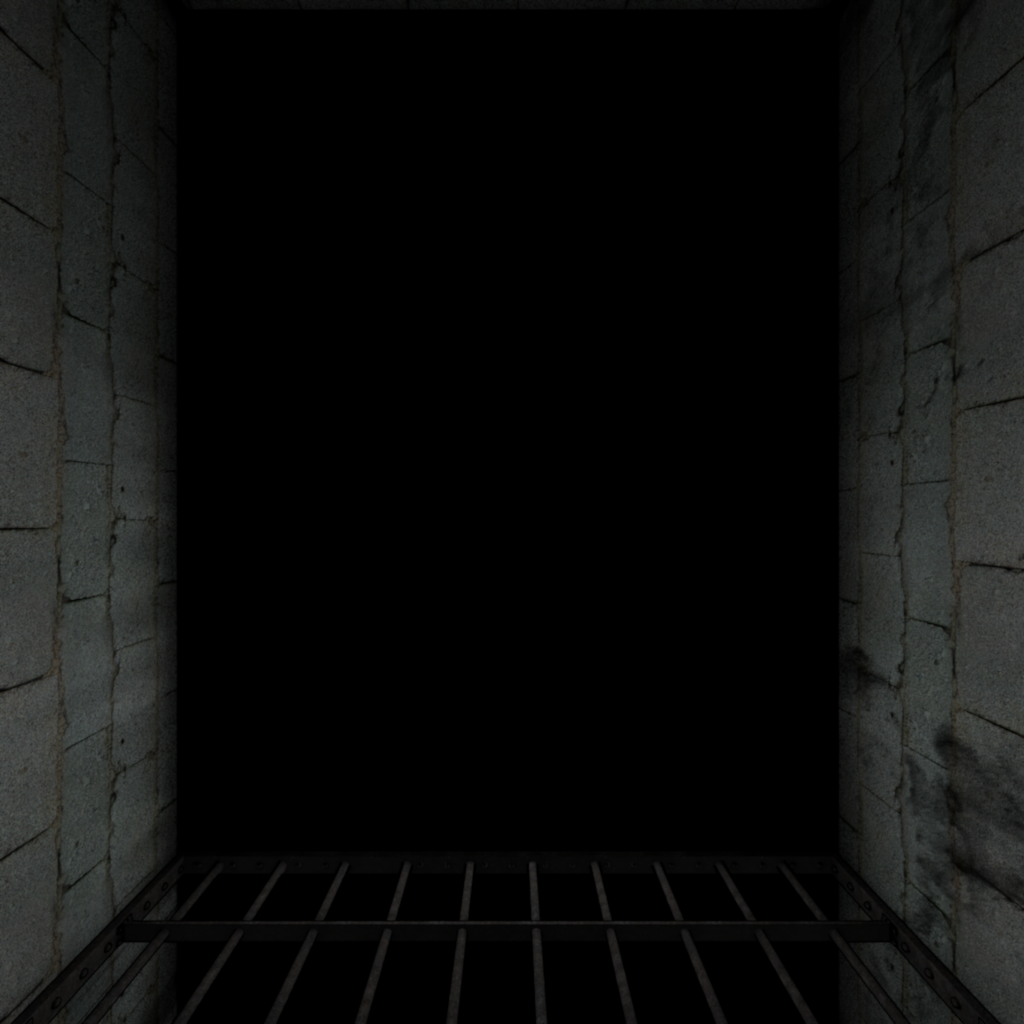
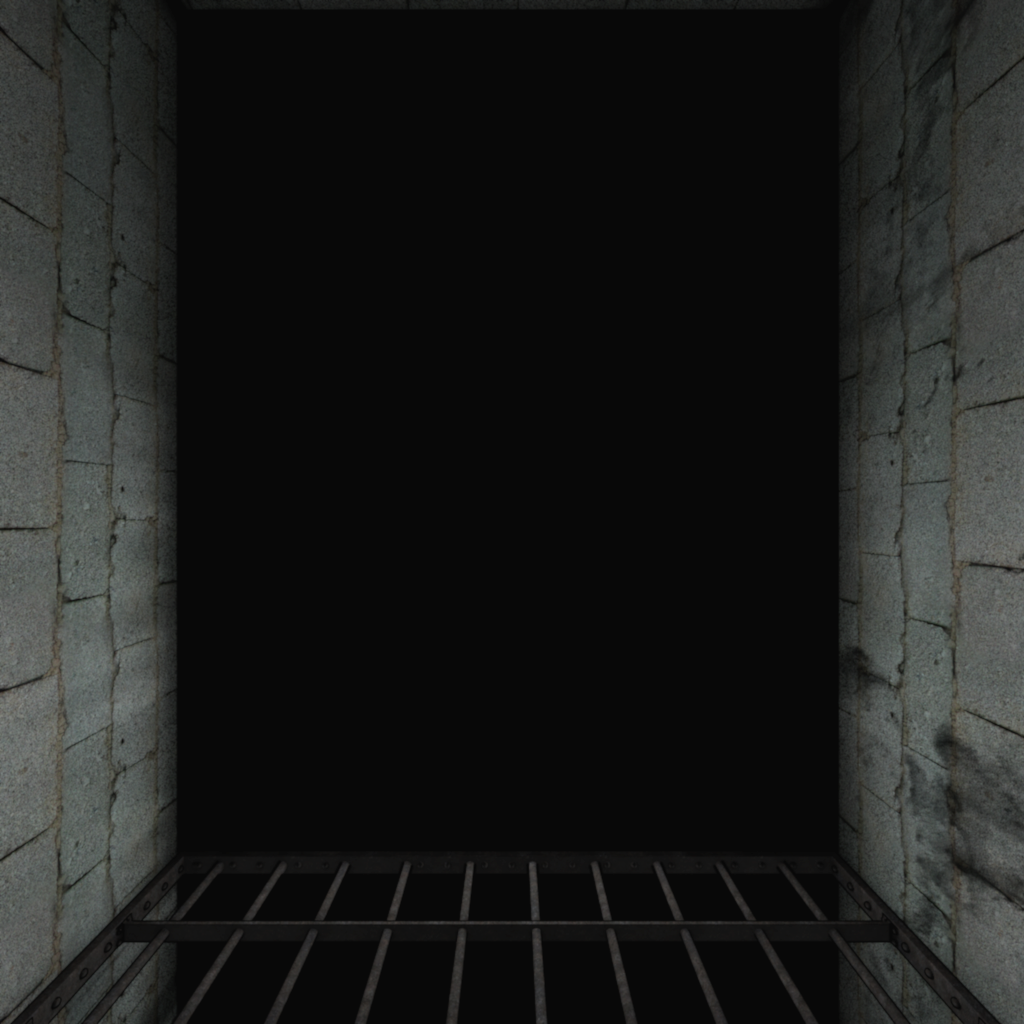
rawr

diff --git a/scenes/cell.html b/scenes/cell.html
@@ -12,46 +12,69 @@
 
         var buttons = [];
 
-        scene.createCubemap("../assets/skyboxes/jailcell/jailcell_", {yaw:-367.5,pitch:-413.75});
-        buttons.push(scene.addHotRegion({
-            origin: [-80, 80, -0],
-            size: [80, 10, 200]
-          }, function (e) {
-            console.log('mouseover');
-          }, function (e) {// mouse out
-            if(this.style.visibility != "hidden"){
-            };
-          }, function (e) {
-            scene.state.music();
-          }));
-        
-        buttons.push(scene.addHotRegion({
-            origin: [85, 80, -100],
-            size: [20, 60, 20]
-          }, function (e) {
-            console.log('mouseover');
-          }, function (e) {// mouse out
-            if(this.style.visibility != "hidden"){
-            };
-          }, function (e) {
-            scene.state.pipe();
+        scene.createCubemap("../assets/skyboxes/jailcell/jailcell_", {yaw:-314.25,pitch:-395.5});
+         
+        var checkmarks = [];        
+        checkmarks.push(scene.createQuad({
+            origin: [100, 30, -45],
+            size: [0, 20, 20],
+            style: 'doc-one'
           }));
 
+      checkmarks.push(scene.createQuad({
+            origin: [40, 80, 40],
+            size: [20, 0, 20],
+            style: 'doc-one'
+          }));
+
+      checkmarks.push(scene.createQuad({
+            origin: [-30, 80, -35],
+            size: [20, 0, 20],
+            style: 'doc-one'
+          }));
+
+        
         buttons.push(scene.addHotRegion({
-            origin: [30, 80, 10],
-            size: [20, 50, 20]
+            origin: [100, 30, -45],
+            size: [1, 20, 20]
+          }, function (e) {
+            console.log('mouseover');
+          }, function (e) {// mouse out
+            if(this.style.visibility != "hidden"){
+            };
+          }, function (e) {
+            checkmarks[0].style.opacity = 1;
+            scene.state.music();
+          }));
+
+       buttons.push(scene.addHotRegion({
+            origin: [40, 80, 40],
+            size: [20, 1, 20]
           }, function (e) {
             //console.log('mouseover');
           }, function (e) {// mouse out
 
             if(this.style.visibility != "hidden"){
             };
+          }, function (e) {            
+            checkmarks[1].style.opacity = 1;
+            scene.state.pipe();
+          }));
+        
+        buttons.push(scene.addHotRegion({
+            origin: [-30, 80, -35],
+            size: [20, 1, 20]
           }, function (e) {
-              scene.state.drugs();
+            console.log('mouseover');
+          }, function (e) {// mouse out
+            if(this.style.visibility != "hidden"){
+            };
+          }, function (e) {
+            checkmarks[2].style.opacity = 1;
+            scene.state.drugs();
           }));
           
-
-
+      
 
 
         // Checkmark icons

diff --git a/js/intro_scene.js b/js/intro_scene.js
@@ -141,11 +141,11 @@
       origin[1] += _cubemap.box_size/2;
 
       var faceContainer = document.createElement('div');
-      //addToContainer([size[0], size[1]], buildFace('translate3d('+ (-size[0]/2) +'px, '+ (-size[1]/2) +'px, '+ (-size[2]/2) +'px)'));
-      //addToContainer([size[0], size[1]], buildFace('translate3d('+ (-size[0]/2) +'px, '+ (-size[1]/2) +'px, '+ (size[2]/2) +'px)'));
-      //addToContainer([size[0], size[2]], buildFace('translate3d('+ (-size[0]/2) +'px, '+ (-size[2]/2 - size[1]/2) +'px, '+ 0 +'px) rotateX(90deg)'));
-      //addToContainer([size[0], size[2]], buildFace('translate3d('+ (-size[0]/2) +'px, '+ (-size[2]/2 + size[1]/2) +'px, '+ 0 +'px) rotateX(90deg)'));
-      //addToContainer([size[2], size[1]], buildFace('translate3d('+ (-size[2]/2+size[0]/2) +'px, '+ (-size[1]/2) +'px, '+ 0 +'px) rotateY(90deg)'));
+      addToContainer([size[0], size[1]], buildFace('translate3d('+ (-size[0]/2) +'px, '+ (-size[1]/2) +'px, '+ (-size[2]/2) +'px)'));
+      addToContainer([size[0], size[1]], buildFace('translate3d('+ (-size[0]/2) +'px, '+ (-size[1]/2) +'px, '+ (size[2]/2) +'px)'));
+      addToContainer([size[0], size[2]], buildFace('translate3d('+ (-size[0]/2) +'px, '+ (-size[2]/2 - size[1]/2) +'px, '+ 0 +'px) rotateX(90deg)'));
+      addToContainer([size[0], size[2]], buildFace('translate3d('+ (-size[0]/2) +'px, '+ (-size[2]/2 + size[1]/2) +'px, '+ 0 +'px) rotateX(90deg)'));
+      addToContainer([size[2], size[1]], buildFace('translate3d('+ (-size[2]/2+size[0]/2) +'px, '+ (-size[1]/2) +'px, '+ 0 +'px) rotateY(90deg)'));
       addToContainer([size[2], size[1]], buildFace('translate3d('+ (-size[2]/2-size[0]/2) +'px, '+ (-size[1]/2) +'px, '+ 0 +'px) rotateY(90deg)'));
 
       util.applyTransform(faceContainer, 'translate3d('+ (origin[0]) +'px, '+ (origin[1]) +'px, '+ (origin[2]) +'px)');

diff --git a/scenes/lower.html b/scenes/lower.html
@@ -9,9 +9,10 @@
       scene.onready(function (e) {
 
         var buttons = [];
-        scene.createCubemap("../assets/skyboxes/lower/lower_");
+        scene.createCubemap("../assets/skyboxes/lower/lower_", {yaw:-68.5,pitch:-17.75});
+
         buttons.push(scene.addHotRegion({
-            origin: [-80, 80, -0],
+            origin: [-80, 10, -0],
             size: [80, 10, 200]
           }, function (e) {
             console.log('mouseover');
@@ -23,8 +24,8 @@
           }));
         
         buttons.push(scene.addHotRegion({
-            origin: [85, 80, -100],
-            size: [20, 60, 20]
+            origin: [85, 20, -100],
+            size: [20, 100, 60]
           }, function (e) {
             console.log('mouseover');
           }, function (e) {// mouse out

diff --git a/css/scene.css b/css/scene.css
@@ -27,12 +27,12 @@ html, body {
   transform-style: preserve-3d;
   -moz-transform-style: preserve-3d;
   -webkit-transform-style: preserve-3d;
-  background: #0f0;
-  opacity: 0.2;
+  opacity: 0.0;
+  background: url('../assets/ui/checkmark.png');
+  background-size: 100% 100%;
 }
 
 .hot-region:hover .hot-region-face {
-  opacity: 0.5;
   cursor: pointer;
 }
 
@@ -46,4 +46,5 @@ html, body {
   -moz-transform-style: preserve-3d;
   -webkit-transform-style: preserve-3d;
   background-size: 100% 100%;
+  opacity: 0.0;
 }

diff --git a/js/scene.js b/js/scene.js
@@ -117,11 +117,13 @@
       faceContainer.onclick = mouseClickCallback;
       return faceContainer;
     },
-    createCubemap: function (assetPrefix) {
+    createCubemap: function (assetPrefix, options) {
       _cubemap = new Cubemap(assetPrefix, ".png", "cubemap", {
         width: window.innerWidth,
         height: window.innerHeight,
-        perspective: 500});
+        perspective: 500,
+        pitch:options.pitch,
+        yaw: options.yaw});
     },
 
     setupStateMachine: function( btns ){

diff --git a/lib/cubemap.js b/lib/cubemap.js
@@ -73,6 +73,8 @@ function Cubemap(pre_url, post_url, container_id, options)
 
 		that.yaw -= deltax * that.speed;
 		that.pitch += deltay * that.speed;
+
+		//console.log(that.yaw +": "+ that.pitch);
 		that.update();
 
 		/*
